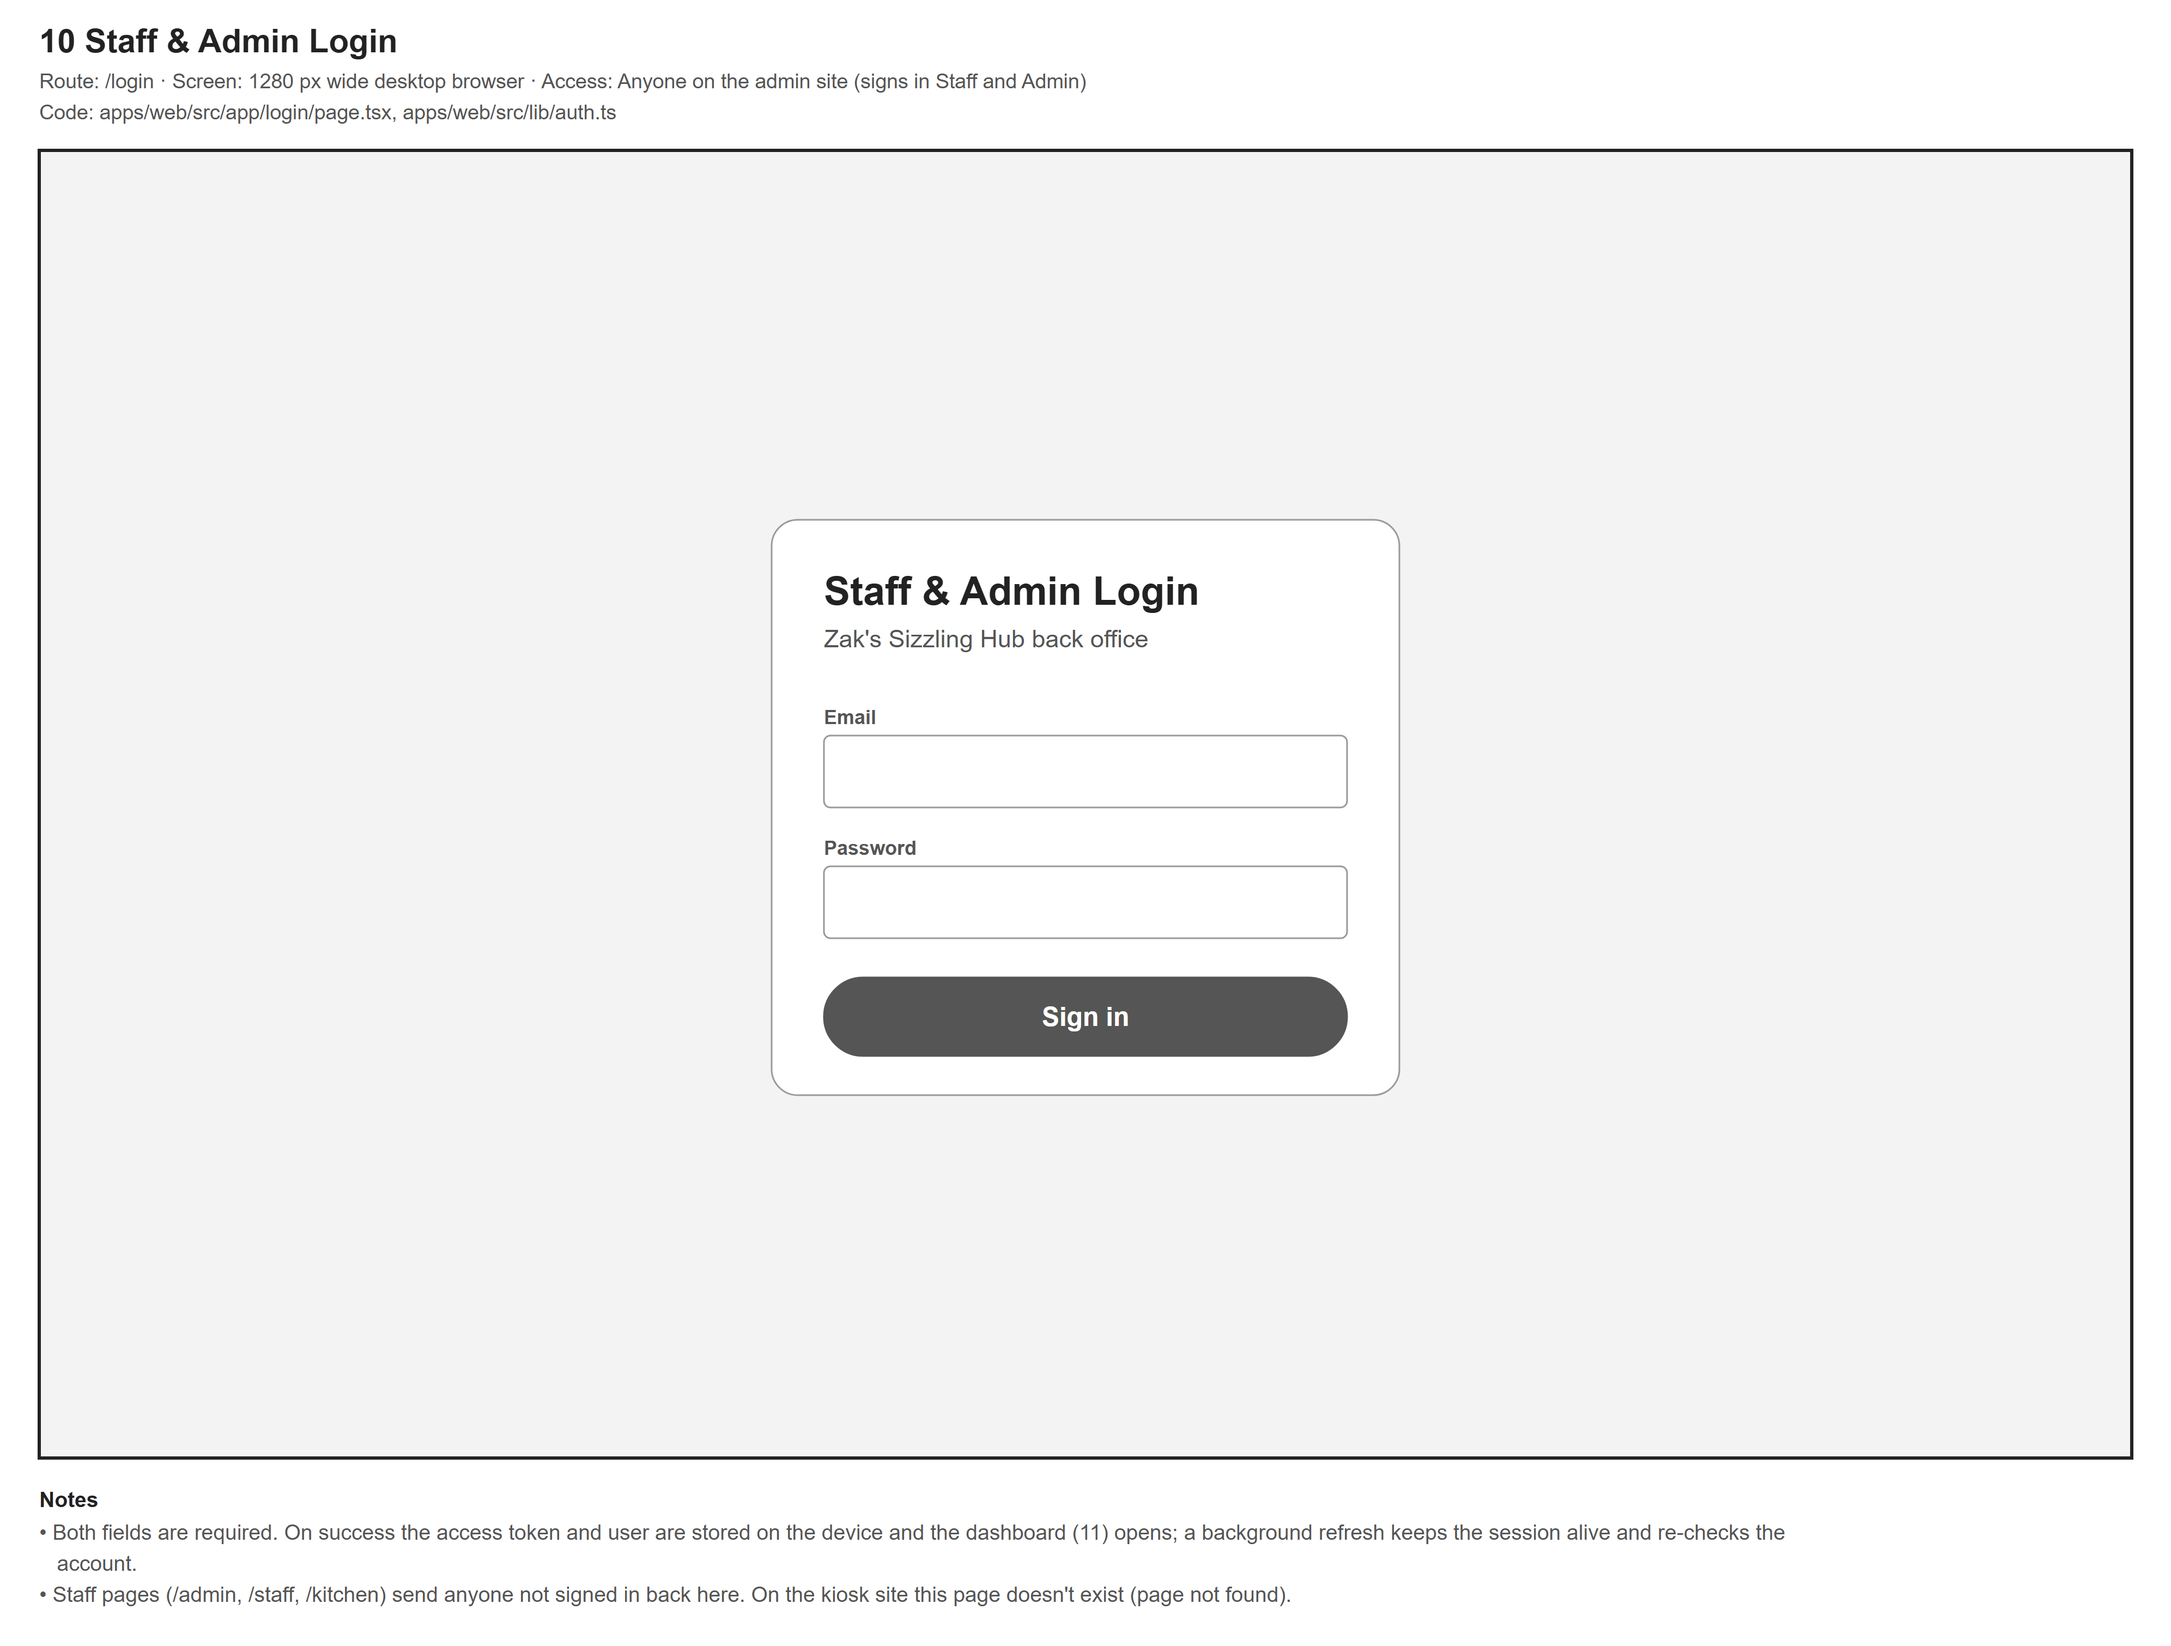
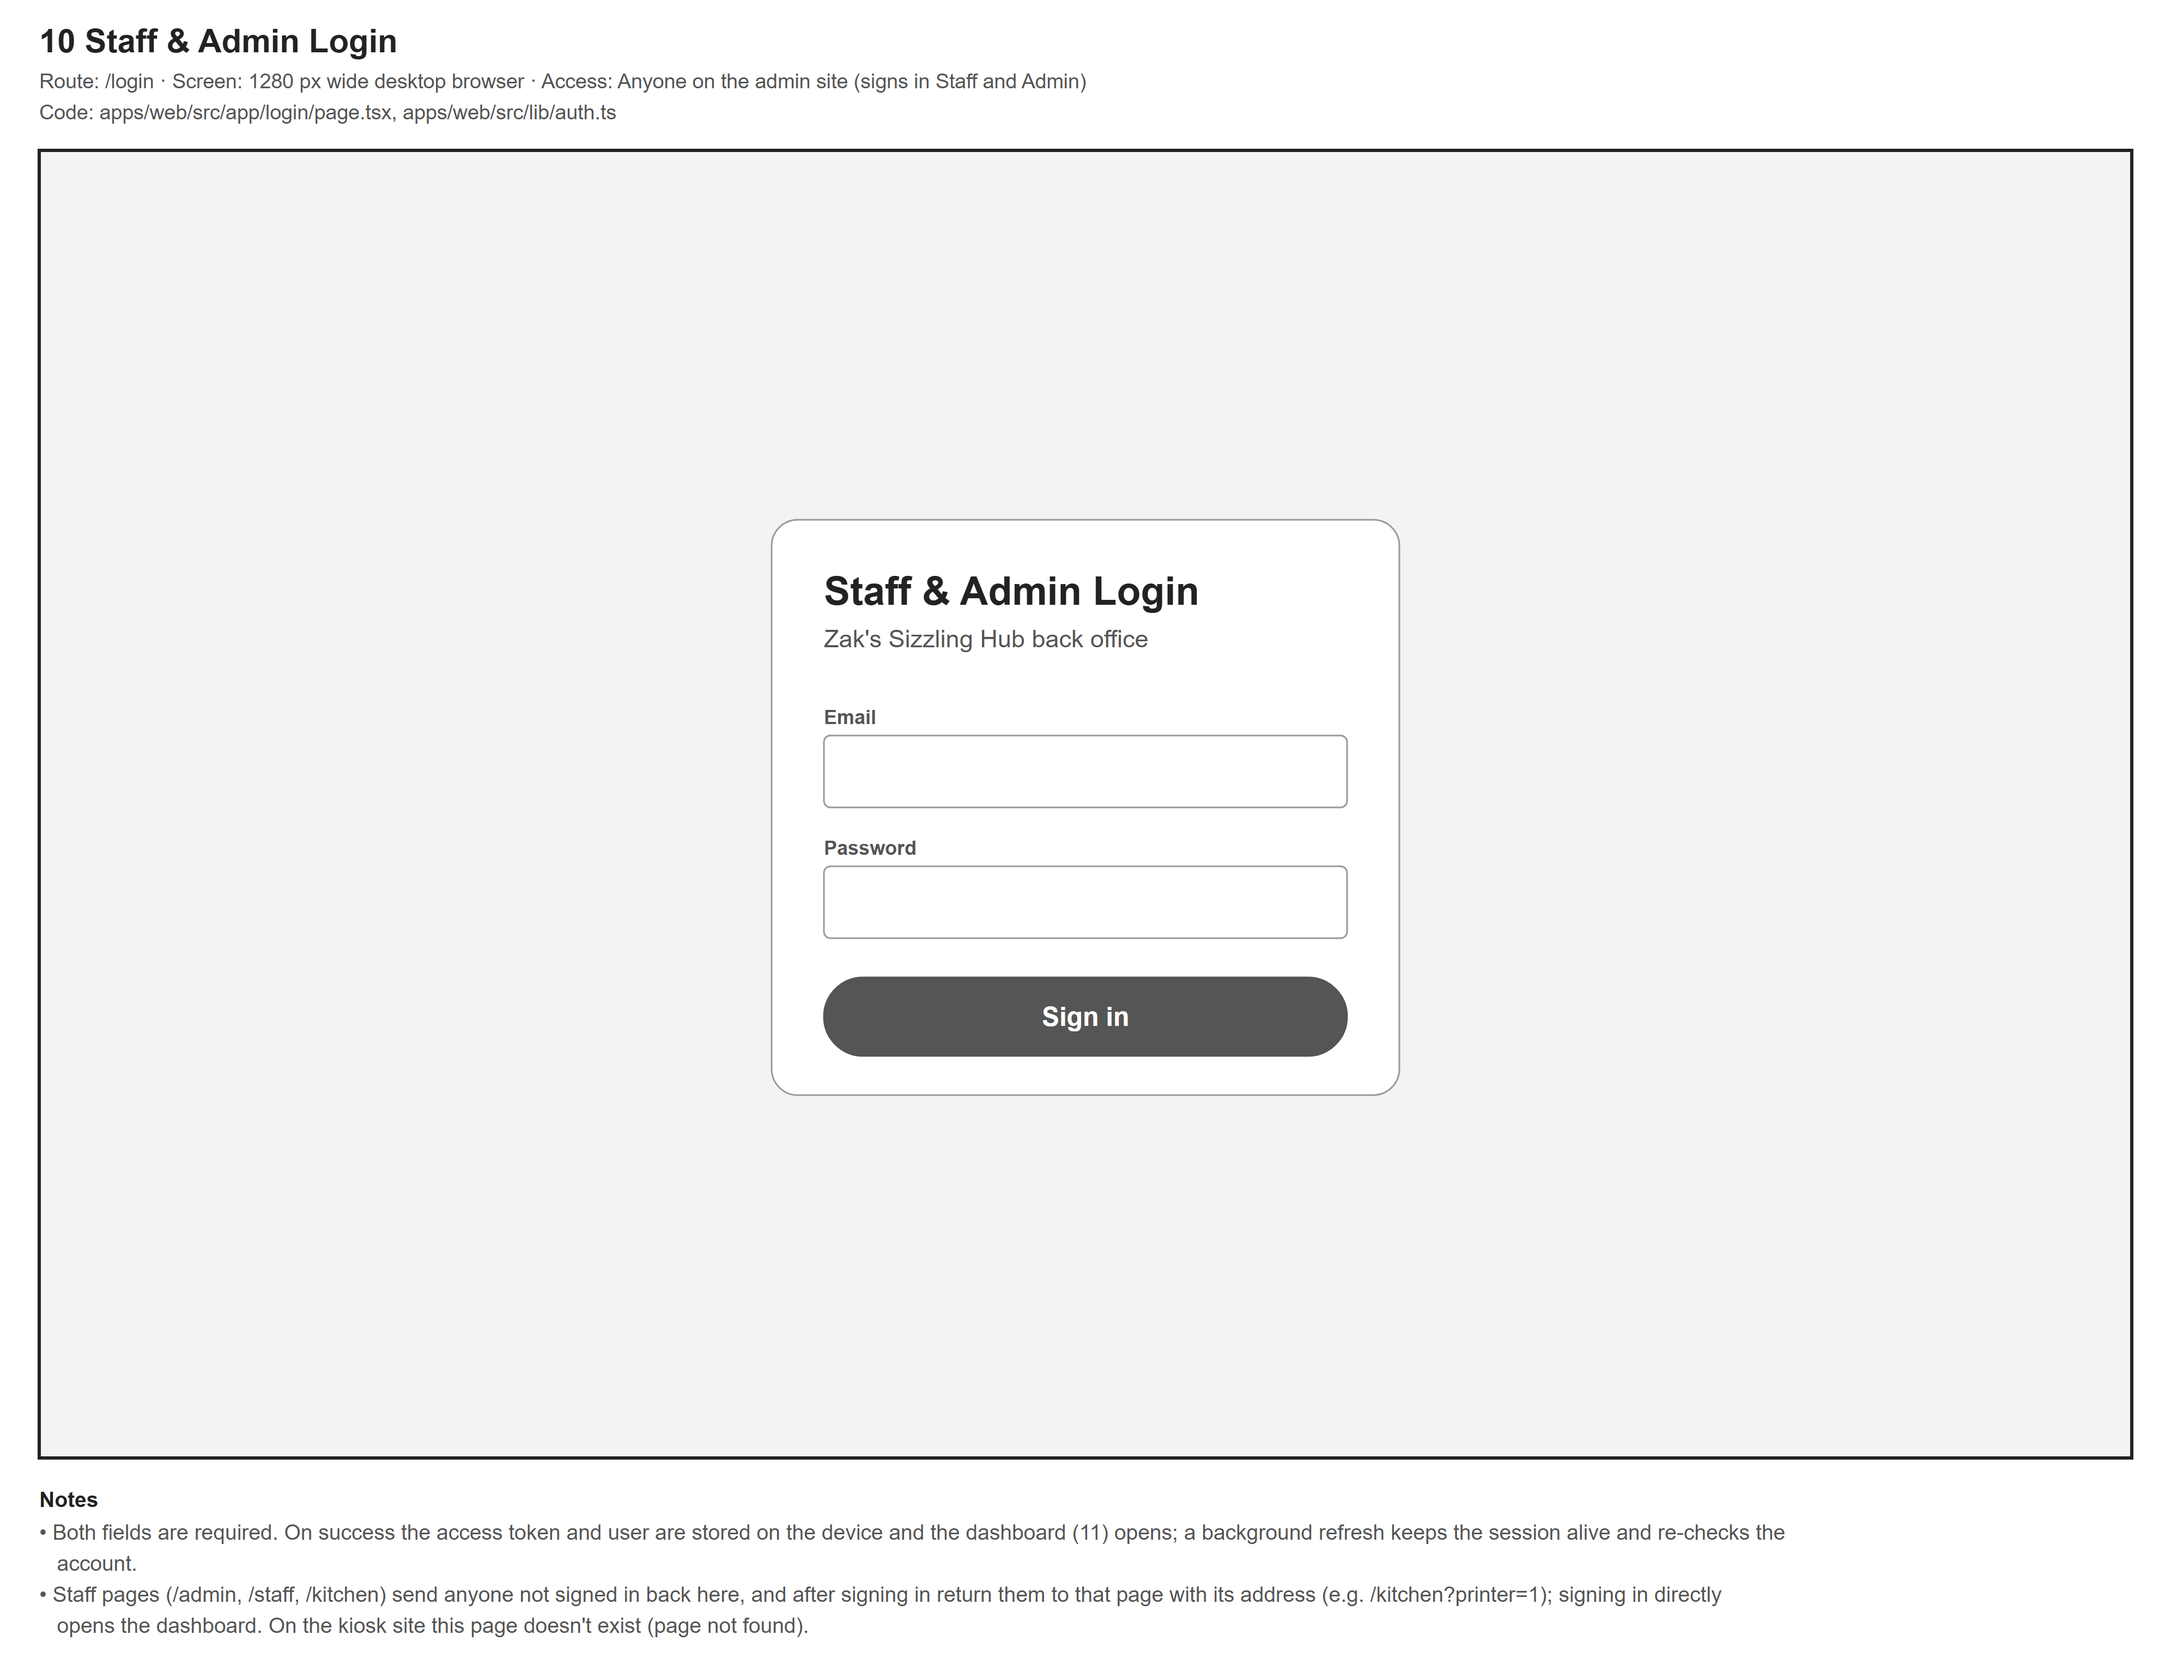
docs: sign-in returns to the requested page
The print service README says the kitchen display's ?printer=1 address survives
the login page. Wireframe 10 and flow 02 describe the return to the page first
opened.

diff --git a/docs/diagrams/source/screens_admin.py b/docs/diagrams/source/screens_admin.py
@@ -189,7 +189,7 @@ def login_page(error):
         f.add_note("The API answers 401 “Invalid email or password” for an unknown email, a suspended account or a wrong password (the same message for all three). Too many failed attempts are rate limited: “Too many failed sign-in attempts. Try again in …”.")
     else:
         f.add_note("Both fields are required. On success the access token and user are stored on the device and the dashboard (11) opens; a background refresh keeps the session alive and re-checks the account.")
-        f.add_note("Staff pages (/admin, /staff, /kitchen) send anyone not signed in back here. On the kiosk site this page doesn't exist (page not found).")
+        f.add_note("Staff pages (/admin, /staff, /kitchen) send anyone not signed in back here, and after signing in return them to that page with its address (e.g. /kitchen?printer=1); signing in directly opens the dashboard. On the kiosk site this page doesn't exist (page not found).")
     return f
 
 

diff --git a/docs/diagrams/source/flows.py b/docs/diagrams/source/flows.py
@@ -30,7 +30,7 @@ def login():
     f.n("active", A, 6, "decision", "Active account with this email?")
     f.n("pw", A, 7, "decision", "Password matches?")
     f.n("token", A, 8, "process", "Issue a 15-minute access token and a 7-day refresh cookie")
-    f.n("store", Wb, 9, "process", "Save the token and user on this device; open the dashboard (11)")
+    f.n("store", Wb, 9, "process", "Save the token and user on this device; return to the page first opened, or the dashboard (11)")
     f.n("adminonly", Wb, 10, "decision", "Admin-only page and the user is Staff?")
     f.n("redirect", Wb, 11, "process", "Send to the dashboard (11) instead")
     f.n("page", U, 11, "end", "Sees the page; the sidebar hides admin-only items for Staff")

diff --git a/print-service/README.md b/print-service/README.md
@@ -79,9 +79,10 @@ another Linux computer with Node.js).
 
 4. Switch printing on in the browser of that device, once:
    - on the kiosk's Pi, open the kiosk with `?printer=1` at the end of the address;
-   - on the kitchen device, sign in and open the kitchen display with `?printer=1`, for
-     example `https://zaks-sizzling-hub-admin.up.railway.app/kitchen?printer=1`. The page
-     then shows "Ticket printer on" under its title. Orders already on screen at that
+   - on the kitchen device, open the kitchen display with `?printer=1`:
+     `https://zaks-sizzling-hub-admin.up.railway.app/kitchen?printer=1`. If the login page
+     appears first, sign in; it brings you back to that address. The page then shows
+     "Ticket printer on" under its title. Orders already on screen at that
      moment don't print; every order that arrives after does.
 
    `?printer=0` switches it off again. Only switch it on for one kitchen display, or each
